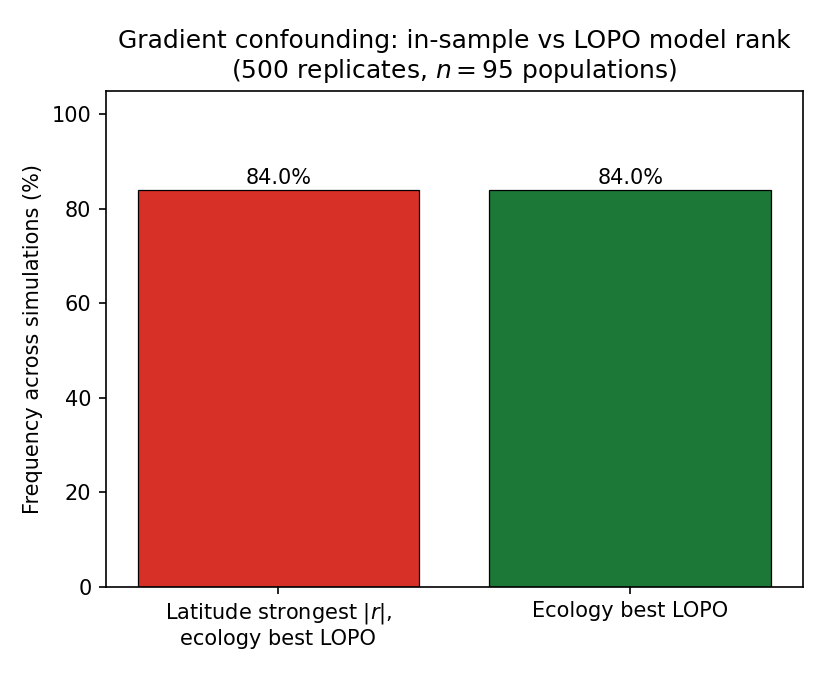
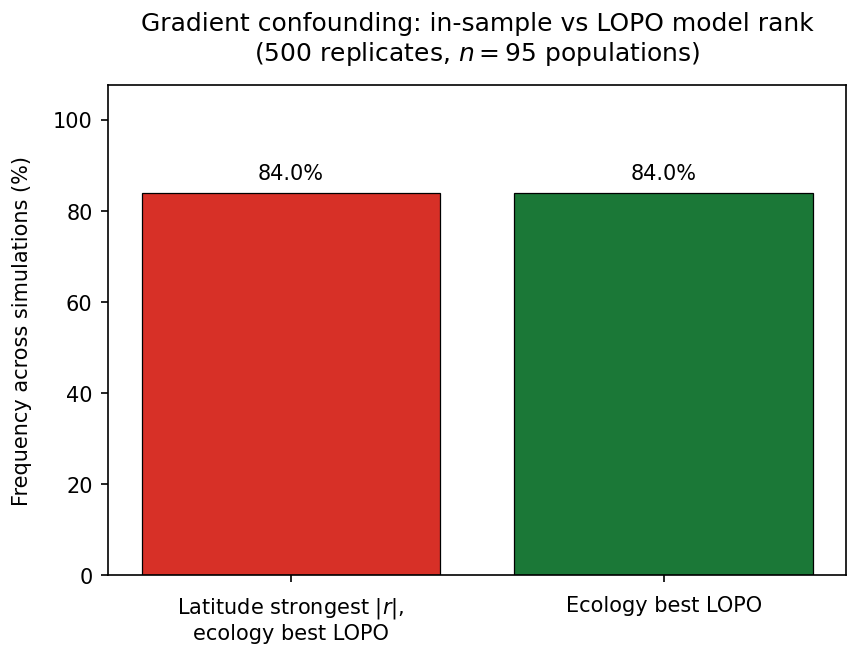
Fix figure layouts and ensure submission bundle uses live GitHub URL.
Regenerate Fig 1–2 and ESM figure with corrected axis spacing; disable
line numbers in main tex; add rebuild checklist to submission script.

Changed region(s): [[0.0, 0.0, 1.0, 0.9771]]

diff --git a/scripts/stator_figure2_composite.py b/scripts/stator_figure2_composite.py
@@ -4,9 +4,6 @@ Figure 2 composite for Volume II: *Stator limbatus* empirical validation.
 
 Panel A: in-sample |r| vs LOPO RMSE rank reversal (2007 survey, n=93).
 Panel B: estimand mismatch — individual 10-fold vs LOPO (ecology vs temperature).
-
-Numbers from Project 50 outputs/tables (2007_proxy_trap_cv.json,
-cv_unit_comparison.json); embedded here for standalone Project 55 builds.
 """
 
 from __future__ import annotations
@@ -23,83 +20,73 @@ ROOT = Path(__file__).resolve().parents[1]
 FIG = ROOT / "outputs" / "figures"
 FIG.mkdir(parents=True, exist_ok=True)
 
-# Matched ecology-complete populations (n = 93)
-MODELS = ["Latitude", "Temperature", "Ecology\nmultivariate"]
-ABS_R = [0.416, 0.219, np.nan]
+LOPO_MODELS = ["Latitude", "Temperature", "Ecology"]
 LOPO_RMSE = [0.106, 0.112, 0.104]
+UNI_MODELS = ["Latitude", "Temperature"]
+UNI_R = [0.416, 0.219]
 COLORS = ["#92c5de", "#f4a582", "#1b7837"]
 
-CV_SCHEMES = ["10-fold\nindividual", "LOPO\npopulation"]
+CV_SCHEMES = ["10-fold individual", "LOPO population"]
 ECO_RMSE = [0.150, 0.104]
 TEMP_RMSE = [0.158, 0.112]
 
 
-def panel_proxy_vs_lopo(ax_left, ax_right) -> None:
-    """Dual ranking: strongest in-sample correlate vs best LOPO model."""
-    # Left: univariate |r| (ecology is multivariate — not comparable)
-    uni_labels = ["Latitude", "Temperature"]
-    uni_r = [ABS_R[0], ABS_R[1]]
-    bars = ax_left.bar(
-        uni_labels,
-        uni_r,
+def _style_axes(ax) -> None:
+    ax.spines["top"].set_visible(False)
+    ax.spines["right"].set_visible(False)
+    ax.tick_params(axis="both", which="major", labelsize=9, pad=3)
+
+
+def panel_a_insample(ax) -> None:
+    y = np.arange(len(UNI_MODELS))
+    bars = ax.barh(
+        y,
+        UNI_R,
         color=COLORS[:2],
         edgecolor="k",
         linewidth=0.6,
-        width=0.55,
+        height=0.55,
     )
     bars[0].set_edgecolor("#2166ac")
     bars[0].set_linewidth(2.0)
-    ax_left.set_ylabel("In-sample $|r|$ with body-size PC1")
-    ax_left.set_ylim(0, 0.48)
-    ax_left.set_title("In-sample correlate\n(strongest: latitude)", fontsize=10)
-    for bar, val in zip(bars, uni_r):
-        ax_left.text(
-            bar.get_x() + bar.get_width() / 2,
-            val + 0.012,
-            f"{val:.3f}",
-            ha="center",
-            va="bottom",
-            fontsize=8,
-        )
-    ax_left.text(
-        0.5,
-        -0.22,
-        "Ecology multivariate: no single $|r|$",
-        transform=ax_left.transAxes,
-        ha="center",
-        fontsize=7.5,
-        style="italic",
-    )
+    ax.set_yticks(y)
+    ax.set_yticklabels(UNI_MODELS)
+    ax.set_xlim(0, 0.48)
+    ax.set_title("In-sample correlate (strongest: latitude)", fontsize=10, pad=8)
+    ax.set_xlabel("In-sample $|r|$ with PC1", labelpad=8)
+    ax.invert_yaxis()
+    for bar, val in zip(bars, UNI_R):
+        ax.text(val + 0.012, bar.get_y() + bar.get_height() / 2, f"{val:.3f}", va="center", fontsize=8)
+    _style_axes(ax)
 
-    # Right: LOPO RMSE (all three models)
-    bars = ax_right.bar(
-        MODELS,
+
+def panel_a_lopo(ax) -> None:
+    y = np.arange(len(LOPO_MODELS))
+    bars = ax.barh(
+        y,
         LOPO_RMSE,
         color=COLORS,
         edgecolor="k",
         linewidth=0.6,
-        width=0.55,
+        height=0.55,
     )
     best_idx = int(np.argmin(LOPO_RMSE))
     bars[best_idx].set_edgecolor("#1b7837")
     bars[best_idx].set_linewidth(2.5)
-    ax_right.set_ylabel("LOPO RMSE")
-    ax_right.set_ylim(0, 0.13)
-    ax_right.set_title("Held-out population means\n(best: ecology)", fontsize=10)
+    ax.set_yticks(y)
+    ax.set_yticklabels(LOPO_MODELS)
+    ax.set_xlim(0, 0.13)
+    ax.set_title("Held-out population means (best: ecology)", fontsize=10, pad=8)
+    ax.set_xlabel("LOPO RMSE", labelpad=8)
+    ax.invert_yaxis()
     for bar, val in zip(bars, LOPO_RMSE):
-        ax_right.text(
-            bar.get_x() + bar.get_width() / 2,
-            val + 0.002,
-            f"{val:.3f}",
-            ha="center",
-            va="bottom",
-            fontsize=8,
-        )
+        ax.text(val + 0.002, bar.get_y() + bar.get_height() / 2, f"{val:.3f}", va="center", fontsize=8)
+    _style_axes(ax)
 
 
-def panel_cv_unit(ax) -> None:
+def panel_b_cv(ax) -> None:
     x = np.arange(len(CV_SCHEMES))
-    width = 0.35
+    width = 0.34
     ax.bar(
         x - width / 2,
         TEMP_RMSE,
@@ -120,54 +107,89 @@ def panel_cv_unit(ax) -> None:
     )
     ax.set_xticks(x)
     ax.set_xticklabels(CV_SCHEMES)
-    ax.set_ylabel("Cross-validated RMSE")
-    ax.set_ylim(0, 0.18)
-    ax.set_title(
-        "Estimand mismatch\n(ecology RMSE +45% under individual $k$-fold)",
-        fontsize=10,
-    )
+    ax.set_ylabel("Cross-validated RMSE", labelpad=10)
+    ax.set_ylim(0, 0.19)
     ax.legend(fontsize=8, frameon=False, loc="upper right")
     for i, (t, e) in enumerate(zip(TEMP_RMSE, ECO_RMSE)):
-        ax.text(i - width / 2, t + 0.004, f"{t:.3f}", ha="center", fontsize=7.5)
-        ax.text(i + width / 2, e + 0.004, f"{e:.3f}", ha="center", fontsize=7.5)
+        ax.text(i - width / 2, t + 0.005, f"{t:.3f}", ha="center", va="bottom", fontsize=7.5)
+        ax.text(i + width / 2, e + 0.005, f"{e:.3f}", ha="center", va="bottom", fontsize=7.5)
+    ax.tick_params(axis="x", pad=6)
+    _style_axes(ax)
+
+
+def _fill_spacer(fig, ax_spacer) -> None:
+    """Whitespace between Panel A and Panel B: Panel B header only."""
+    ax_spacer.axis("off")
+    ps = ax_spacer.get_position()
+
+    y_title = ps.y0 + 0.72 * (ps.y1 - ps.y0)
+    y_subtitle = ps.y0 + 0.28 * (ps.y1 - ps.y0)
+
+    fig.text(
+        0.5,
+        y_title,
+        "B. Cross-validation unit",
+        ha="center",
+        va="center",
+        fontsize=10,
+        fontweight="bold",
+    )
+    fig.text(
+        0.5,
+        y_subtitle,
+        "Estimand mismatch (ecology RMSE +45% under individual $k$-fold)",
+        ha="center",
+        va="center",
+        fontsize=9,
+    )
 
 
 def main() -> None:
-    fig = plt.figure(figsize=(7.2, 3.6))
-    gs = fig.add_gridspec(1, 2, width_ratios=[1.15, 0.85], wspace=0.38)
+    fig = plt.figure(figsize=(7.6, 7.4))
+    gs = fig.add_gridspec(
+        4,
+        2,
+        height_ratios=[0.045, 0.88, 0.16, 1.0],
+        hspace=0.52,
+        wspace=0.42,
+        left=0.20,
+        right=0.97,
+        top=0.93,
+        bottom=0.10,
+    )
 
-    gs_a = gs[0].subgridspec(1, 2, wspace=0.35)
-    ax_a1 = fig.add_subplot(gs_a[0, 0])
-    ax_a2 = fig.add_subplot(gs_a[0, 1])
-    panel_proxy_vs_lopo(ax_a1, ax_a2)
-
-    ax_b = fig.add_subplot(gs[1])
-    panel_cv_unit(ax_b)
-
-    ax_a1.text(
+    ax_a_header = fig.add_subplot(gs[0, :])
+    ax_a_header.axis("off")
+    ax_a_header.text(
         0.5,
-        -0.30,
+        0.5,
         "A. Proxy vs holdout ranking ($n=93$)",
-        transform=ax_a1.transAxes,
         ha="center",
+        va="center",
         fontsize=10,
+        transform=ax_a_header.transAxes,
     )
-    ax_b.text(
-        0.5,
-        -0.22,
-        "B. Cross-validation unit",
-        transform=ax_b.transAxes,
-        ha="center",
-        fontsize=10,
-    )
+
+    ax_a1 = fig.add_subplot(gs[1, 0])
+    ax_a2 = fig.add_subplot(gs[1, 1])
+    ax_spacer = fig.add_subplot(gs[2, :])
+    ax_b = fig.add_subplot(gs[3, :])
+
+    panel_a_insample(ax_a1)
+    panel_a_lopo(ax_a2)
+    panel_b_cv(ax_b)
+
+    fig.canvas.draw()
+    _fill_spacer(fig, ax_spacer)
 
     fig.suptitle(
         "Stator limbatus geographic cline (Stillwell et al. 2007)",
         fontsize=11,
-        y=1.02,
+        y=0.98,
     )
+
     out = FIG / "stator_empirical_summary_composite.png"
-    fig.savefig(out, dpi=200, bbox_inches="tight")
+    fig.savefig(out, dpi=200)
     plt.close(fig)
     print(f"Wrote {out}")
 

diff --git a/scripts/simulation_lopo_confounding.py b/scripts/simulation_lopo_confounding.py
@@ -149,19 +149,29 @@ def plot_mismatch_rates(summary: dict) -> Path:
         summary["rate_lat_r_mismatch"] * 100,
         summary["rate_ecology_best_lopo"] * 100,
     ]
-    fig, ax = plt.subplots(figsize=(5.5, 4.5))
+    fig, ax = plt.subplots(figsize=(6.0, 4.8))
     bars = ax.bar(labels, rates, color=["#d73027", "#1b7837"], edgecolor="k", linewidth=0.6)
     for bar, val in zip(bars, rates):
-        ax.text(bar.get_x() + bar.get_width() / 2, val + 1.2, f"{val:.1f}%", ha="center", fontsize=10)
-    ax.set_ylabel("Frequency across simulations (%)")
-    ax.set_ylim(0, max(rates) * 1.25)
+        ax.text(
+            bar.get_x() + bar.get_width() / 2,
+            val + 2.0,
+            f"{val:.1f}%",
+            ha="center",
+            va="bottom",
+            fontsize=10,
+        )
+    ax.set_ylabel("Frequency across simulations (%)", labelpad=10)
+    ax.set_ylim(0, max(rates) * 1.28)
     ax.set_title(
         f"Gradient confounding: in-sample vs LOPO model rank\n"
-        f"({summary['n_replicates']} replicates, $n={summary['n_populations']}$ populations)"
+        f"({summary['n_replicates']} replicates, $n={summary['n_populations']}$ populations)",
+        pad=12,
     )
-    fig.tight_layout()
+    ax.tick_params(axis="x", pad=6)
+    ax.tick_params(axis="y", pad=4)
+    fig.subplots_adjust(left=0.16, bottom=0.20, right=0.98, top=0.88)
     out = FIG / "simulation_lopo_mismatch_rates.png"
-    fig.savefig(out, dpi=150)
+    fig.savefig(out, dpi=150, bbox_inches="tight", pad_inches=0.08)
     plt.close(fig)
     return out
 
@@ -174,19 +184,23 @@ def plot_aic_lopo_example(rng: np.random.Generator) -> Path:
     aic = {n: in_sample_aic(df, feats)["aic"] for n, feats in MODELS.items()}
     lopo = {n: fast_lopo_rmse(df, feats) for n, feats in MODELS.items()}
 
-    fig, axes = plt.subplots(1, 2, figsize=(9, 4.5), sharey=False)
+    fig, axes = plt.subplots(1, 2, figsize=(9.5, 4.8), sharey=True)
     axes[0].barh(labels, [aic[n] for n in names], color="#756bb1", edgecolor="k")
-    axes[0].set_xlabel("In-sample AIC (lower better)")
-    axes[0].set_title("In-sample fit")
+    axes[0].set_xlabel("In-sample AIC (lower better)", labelpad=8)
+    axes[0].set_title("In-sample fit", pad=10)
     axes[0].invert_xaxis()
+    axes[0].tick_params(axis="x", pad=4)
+    axes[0].tick_params(axis="y", pad=4)
 
     axes[1].barh(labels, [lopo[n] for n in names], color="#1b7837", edgecolor="k")
-    axes[1].set_xlabel("LOPO RMSE (lower better)")
-    axes[1].set_title("Held-out populations")
-    fig.suptitle("Semi-synthetic cline: AIC vs LOPO ranking")
-    fig.tight_layout()
+    axes[1].set_xlabel("LOPO RMSE (lower better)", labelpad=8)
+    axes[1].set_title("Held-out populations", pad=10)
+    axes[1].tick_params(axis="x", pad=4)
+    axes[1].tick_params(axis="y", labelleft=False)
+    fig.suptitle("Semi-synthetic cline: AIC vs LOPO ranking", y=0.98)
+    fig.subplots_adjust(left=0.14, bottom=0.16, right=0.98, top=0.86, wspace=0.22)
     out = FIG / "simulation_aic_vs_lopo_example.png"
-    fig.savefig(out, dpi=150)
+    fig.savefig(out, dpi=150, bbox_inches="tight", pad_inches=0.08)
     plt.close(fig)
     return out
 

diff --git a/stillwell2026b_ecological_inference_structured_erm.tex b/stillwell2026b_ecological_inference_structured_erm.tex
@@ -1,6 +1,6 @@
 \documentclass[11pt]{article}
 
-\usepackage{interface_submission}
+\usepackage[nolinenumbers]{interface_submission}
 
 \begin{document}
 
